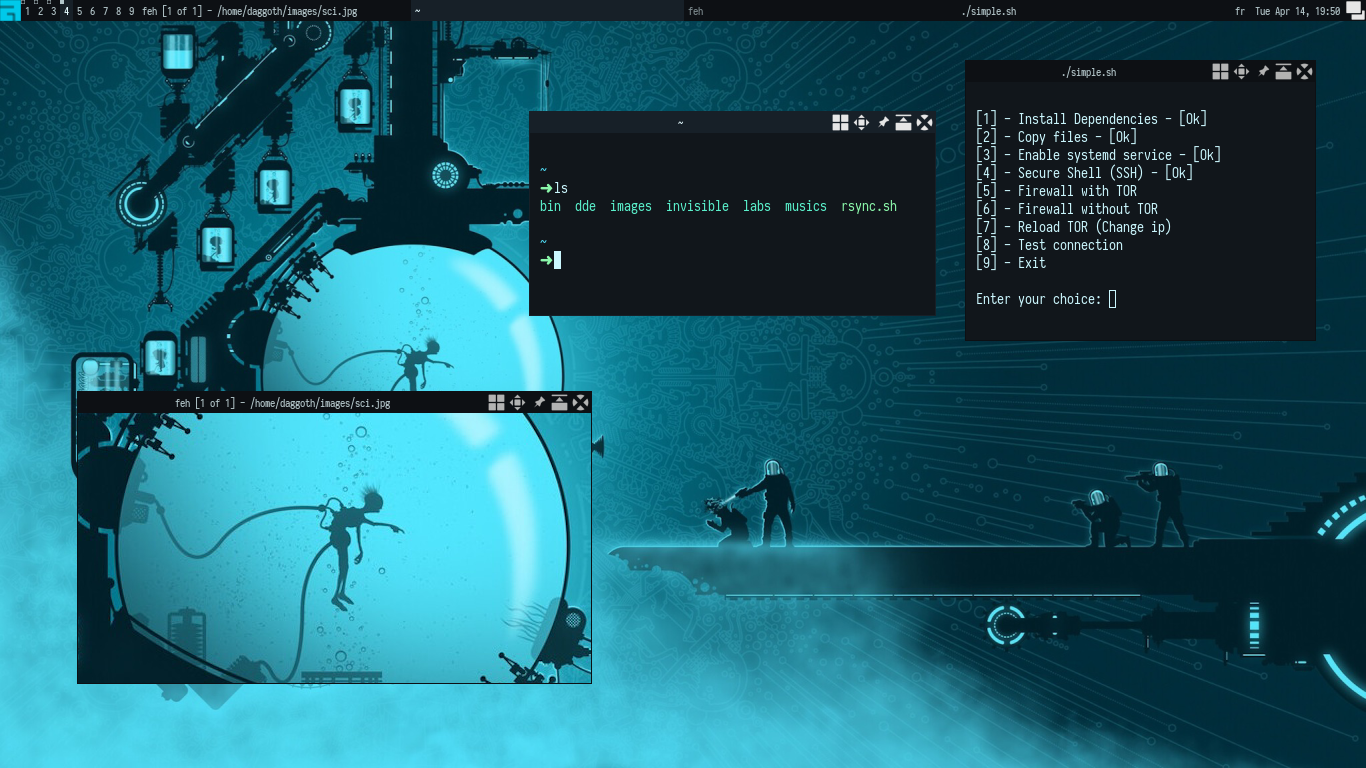
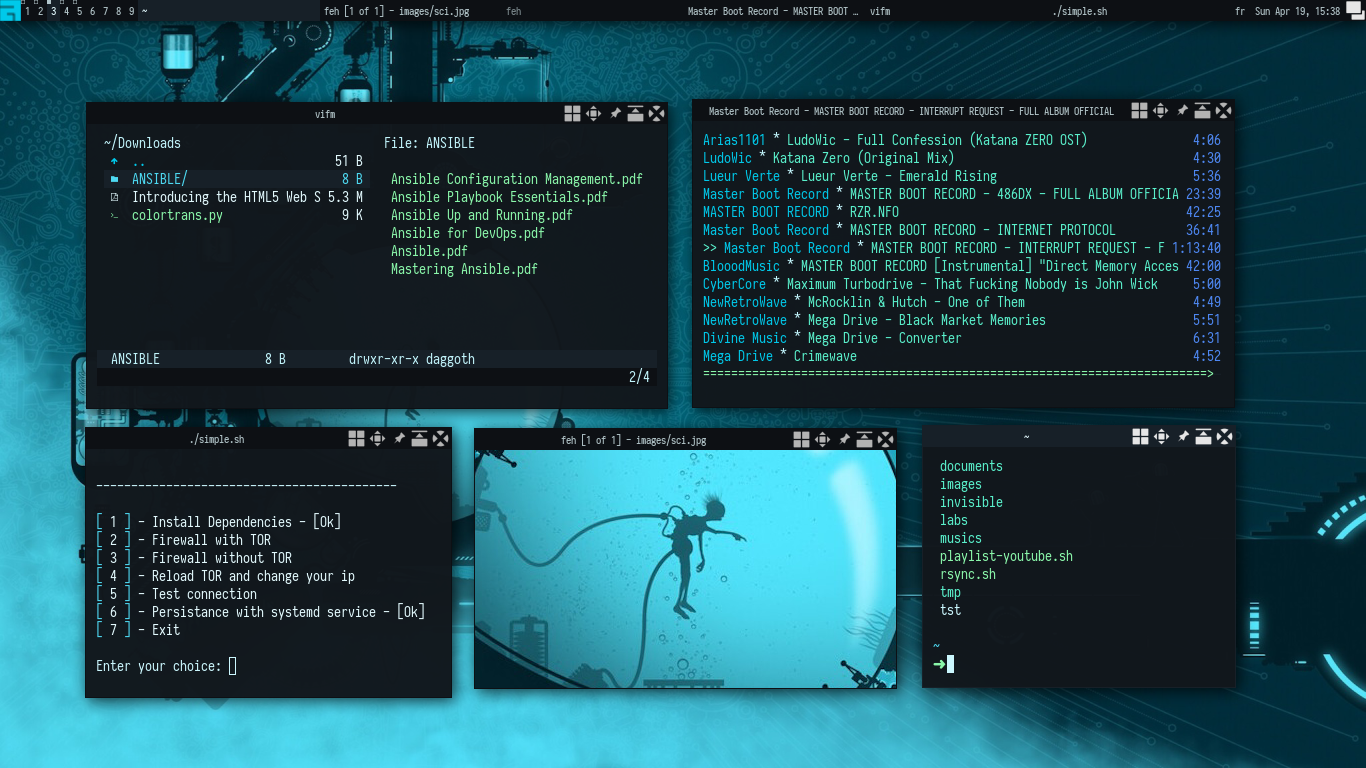
more screens for sci

diff --git a/sci/README.md b/sci/README.md
@@ -1,2 +1,4 @@
 Sci
 ![](https://github.com/szorfein/unix-portfolio/blob/master/sci/float.png)
+![](https://github.com/szorfein/unix-portfolio/blob/master/sci/vim.png)
+![](https://github.com/szorfein/unix-portfolio/blob/master/sci/logout.png)
